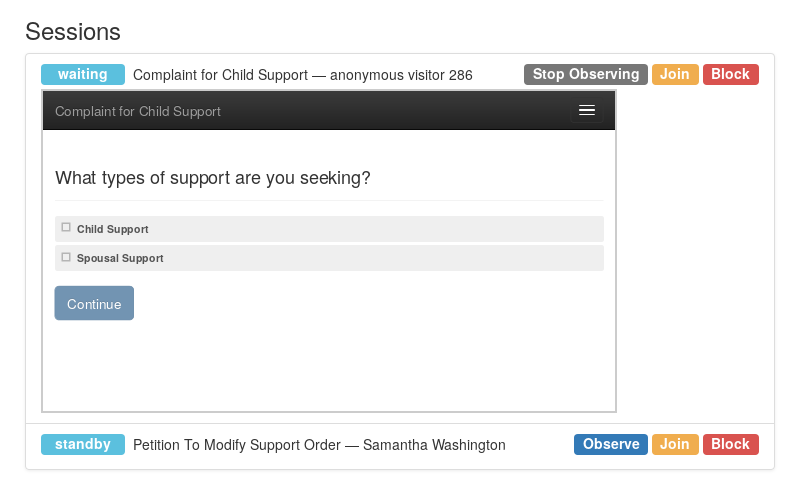
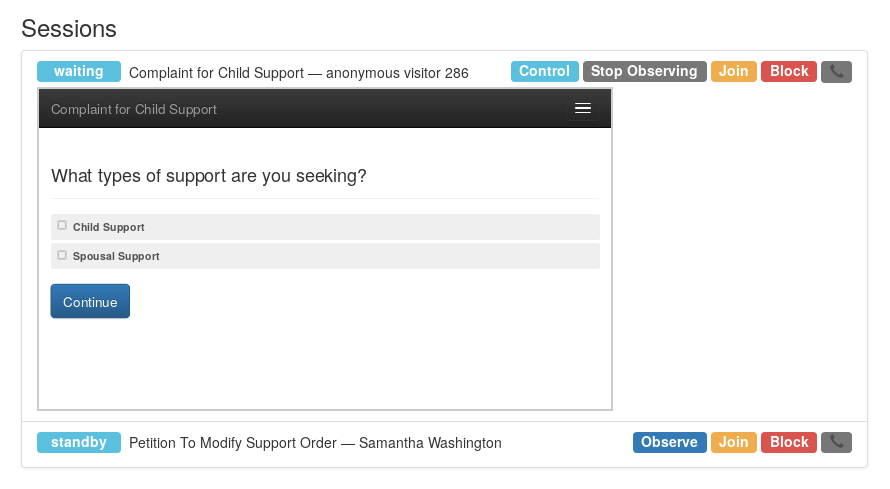
operator control

diff --git a/_docs/livehelp.md b/_docs/livehelp.md
@@ -112,7 +112,7 @@ law" area of expertise.
 
 ![monitor-roles]({{ site.baseurl }}/img/monitor-roles.png){: .maybe-full-width }
 
-When an interview author uses [`set_chat_status()`] to enable the chat
+When an interview author uses [`set_live_help_status()`] to enable the chat
 feature, the author indicates which "partner roles," or areas of
 expertise, are required for the interview.  One interview may indicate
 "estates" as a partner role, while another may indicate "family law."
@@ -134,37 +134,44 @@ opportunity to enter their phone number.
 Once a phone number is set, the operator can use the
 [telephone call forwarding] feature.
 
-## List of sessions
+## <a name="sessions"></a>List of sessions
 
 Under "Sessions," the operator will see a list of active interviews
-where the interview author has used [`set_chat_status()`] to enable
+where the interview author has used [`set_live_help_status()`] to enable
 the user and the operator to communicate.
 
-Active sessions for interviews where [`set_chat_status()`] has not
+Active sessions for interviews where [`set_live_help_status()`] has not
 been run will be invisible.
 
 (It is important for interview authors to inform users that operators
 may be monitoring their session.  Interview logic can be used to run
-[`set_chat_status()`] only if and only when the user has consented to
+[`set_live_help_status()`] only if and only when the user has consented to
 monitoring by an operator.)
 
 ![monitor-session-listing]({{ site.baseurl }}/img/monitor-session-listing.png){: .maybe-full-width }
 
 Each session listing consists of:
 
-* A chat status indicator:
-    * ![monitor-indicator-waiting]({{ site.baseurl }}/img/monitor-indicator-waiting.png) means that the user is waiting for available chat
-      partners to appear;
-    * ![monitor-indicator-standby]({{ site.baseurl }}/img/monitor-indicator-standby.png) means that a chat partner is available, but the user
-      has not activated chat;
-    * ![monitor-indicator-on]({{ site.baseurl }}/img/monitor-indicator-on.png) means that the user has activated live chat; and
-    * ![monitor-indicator-offline]({{ site.baseurl }}/img/monitor-indicator-offline.png) means that the user's session has become inactive.
+* A status indicator:
+    * ![monitor-indicator-waiting]({{ site.baseurl }}/img/monitor-indicator-waiting.png)
+      means that the user is waiting for available chat partners to
+      appear;
+    * ![monitor-indicator-standby]({{ site.baseurl }}/img/monitor-indicator-standby.png) 
+      means that a chat partner is available, but the user has not
+      activated chat;
+    * ![monitor-indicator-on]({{ site.baseurl }}/img/monitor-indicator-on.png) 
+      means that the user has activated [live chat]; and
+    * ![monitor-indicator-off]({{ site.baseurl }}/img/monitor-indicator-off.png)
+      means that [live chat] is turned off in the user's interview,
+      but the user's screen can still be [observed] and [controlled].
+    * ![monitor-indicator-offline]({{ site.baseurl }}/img/monitor-indicator-offline.png) 
+      means that the user's session has become inactive.
 * The interview title (as set in the [metadata]).
 * The name of the interviewee, if the user is signed in.
 * Control buttons:
     * ![monitor-button-observe]({{ site.baseurl }}/img/monitor-button-observe.png)
       allows the operator to see a [real-time view](#observe) of the
-      user's screen;
+      user's screen, and then take [control] of the screen if necessary;
     * ![monitor-button-join]({{ site.baseurl }}/img/monitor-button-join.png)
       opens a new tab in the operator's browser, where the operator
       [becomes a co-interviewee](#join) in the on-going interview.
@@ -173,7 +180,7 @@ Each session listing consists of:
       conversation or to prevent the user from initiating one, without
       affecting the operator's availability to other sessions.
 
-When a user is connected with an operator, a live chat conversation
+When a user is connected with an operator, a [live chat] conversation
 area will appear within the session entry.
 
 ![chat-example-05]({{ site.baseurl }}/img/chat-example-05.png){: .maybe-full-width }
@@ -211,7 +218,43 @@ will hide the operator's view of the user's screen.
 Users do not receive any kind of notification when an operator starts
 viewing their screen.  It is up to the interview author to inform the
 user that an operator might be watching.  This can be done before
-[`set_chat_status()`] is called, or at the same time.
+[`set_live_help_status()`] is called, or at the same time.
+
+## <a name="control"></a>Controlling the interview in progress
+
+In addition to [observing] the user's screen, the operator
+can take control and start answering questions on behalf of the user,
+while the user watches what the operator does.
+
+When the operator presses the
+![monitor-button-control]({{ site.baseurl }}/img/monitor-button-control.png)
+button, the user sees a notification like this:
+
+![control-example-controlled]({{ site.baseurl }}/img/control-example-controlled.png){: .maybe-full-width }
+
+While in this mode, the user sees changes that the operator makes to
+the screen in real time.  The buttons on the user's screen are
+disabled, so that the user cannot submit any changes.  (The other
+controls are not disabled, but any changes that the user makes will be
+overwritten.)
+
+Meanwhile, the operator can make changes to the user's page in the
+miniature window:
+
+![monitor-example-with-control]({{ site.baseurl }}/img/monitor-example-with-control.png){: .maybe-full-width }
+
+When the operator presses the
+![monitor-button-stop-controlling]({{ site.baseurl }}/img/monitor-button-stop-controlling.png)
+button, the user regains control of the interview:
+
+![control-example-no-longer-controlled]({{ site.baseurl }}/img/control-example-no-longer-controlled.png){: .maybe-full-width }
+
+Note that whenever the live help [availability] setting for an
+interview is set to `'observeonly'` or `'available'`, then any
+operator can [observe] and [control] the interview without the user's
+consent.  Therefore, when you design interviews, it is important that
+before you call [`set_live_help_status()`] to set the [availability],
+you inform the user that their session may be monitored.
 
 ## <a name="join"></a>Joining the interview in progress
 
@@ -240,7 +283,7 @@ until going to a new screen or reloading the page in the web browser.
 # <a name="chat"></a>Live chat
 
 The live chat system needs to be enabled by the interview using the
-[`set_chat_status()`] function.  Then, depending on whether a chat
+[`set_live_help_status()`] function.  Then, depending on whether a chat
 partner is available, the user will be able to go to the help tab
 and chat with one or more chat partners.
 
@@ -251,12 +294,12 @@ They specify whether or not the user should have the option of using
 [live chat], and the types of people with whom the user should
 be able to chat.
 
-There are two functions that interact with the live chat system:
-[`set_chat_status()`] and [`chat_partners_available()`].
+There are two functions that interact with the [live chat] system:
+[`set_live_help_status()`] and [`chat_partners_available()`].
 
-### The <a name="set_chat_status"></a>`set_chat_status()` function
+### The <a name="set_live_help_status"></a>`set_live_help_status()` function
 
-The `set_chat_status()` function takes three optional keyword arguments
+The `set_live_help_status()` function takes three optional keyword arguments
 in order to control three different settings.
 
 For example:
@@ -266,13 +309,17 @@ For example:
 Omitting a keyword argument simply means that the setting will not be
 affected.
 
-The options for `availability` are:
+<a name="availability"></a>The options for `availability` are:
 
-* `'available'`: the user will be able to use live chat.  Note,
+* `'available'`: the user will be able to use [live chat].  Note,
   however, that unless a potential chat partner is available, users
-  may not see the feature on the screen.
-* `'unavailable'`: the user will not be able to use live chat; they will
-  not see any evidence that the feature exists.
+  may not see the feature on the screen.  Operators will also be able
+  to [observe] and [control] the user's screen.
+* `'unavailable'`: the user will not be able to use [live chat]; they will
+  not see any evidence that the feature exists.  Operators will not
+  see the interview [session] listed in the monitor.
+* `'observeonly'`: the user will not be able to use [live chat], but
+  operators will be able to [observe] and [control] the user's screen.
 
 <a name="mode"></a>The options for `mode` are:
 
@@ -569,12 +616,20 @@ user will not longer see the calling instructions or the phone icon.
 [privileges]: {{ site.baseurl }}/docs/users.html#privileges
 [Privileges List]: {{ site.baseurl }}/docs/users.html#privileges
 [Telephone call forwarding]: #phone
-[`set_chat_status()`]: #set_chat_status
+[`set_live_help_status()`]: #set_live_help_status
 [`chat_partners_available()`]: #chat_partners_available
 [telephone call forwarding]: #phone
 [phone]: #phone
 [metadata]: {{ site.baseurl }}/docs/initial.html#metadata
 [Observe]: #observe
+[observe]: #observe
+[observing]: #observe
+[control]: #control
+[controlling]: #control
+[observed]: #observe
+[controlled]: #control
+[session]: #sessions
+[sessions]: #sessions
 [Join]: #join
 [Block]: #join
 [`multi_user`]: {{ site.baseurl }}/docs/special.html#multi_user
@@ -593,3 +648,4 @@ user will not longer see the calling instructions or the phone icon.
 [`peerhelp`]: #peerhelp mode
 [chat mode]: #mode
 [`mode`]: #mode
+[availability]: #availability
